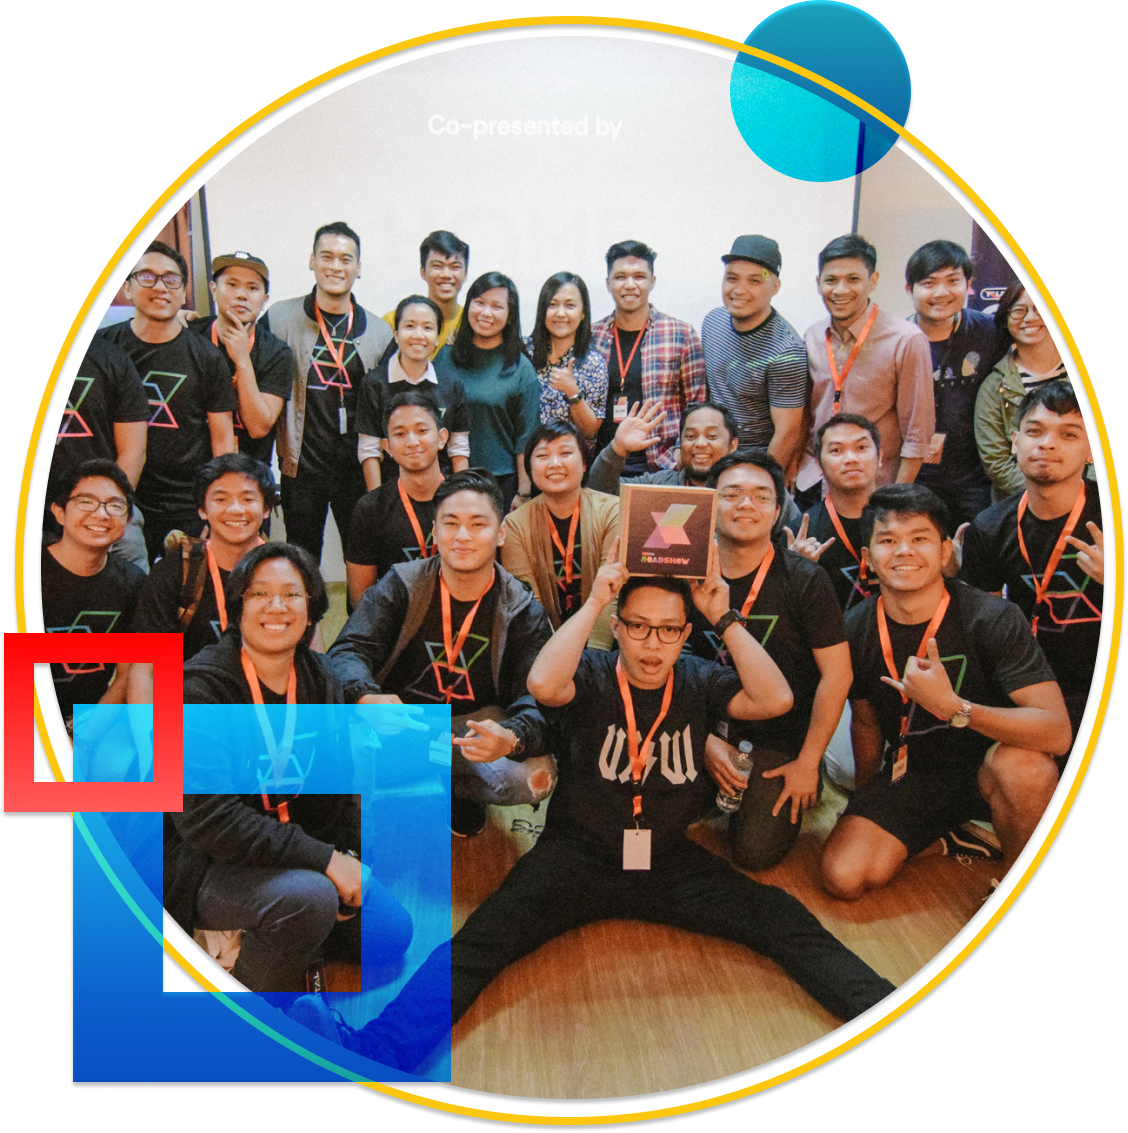
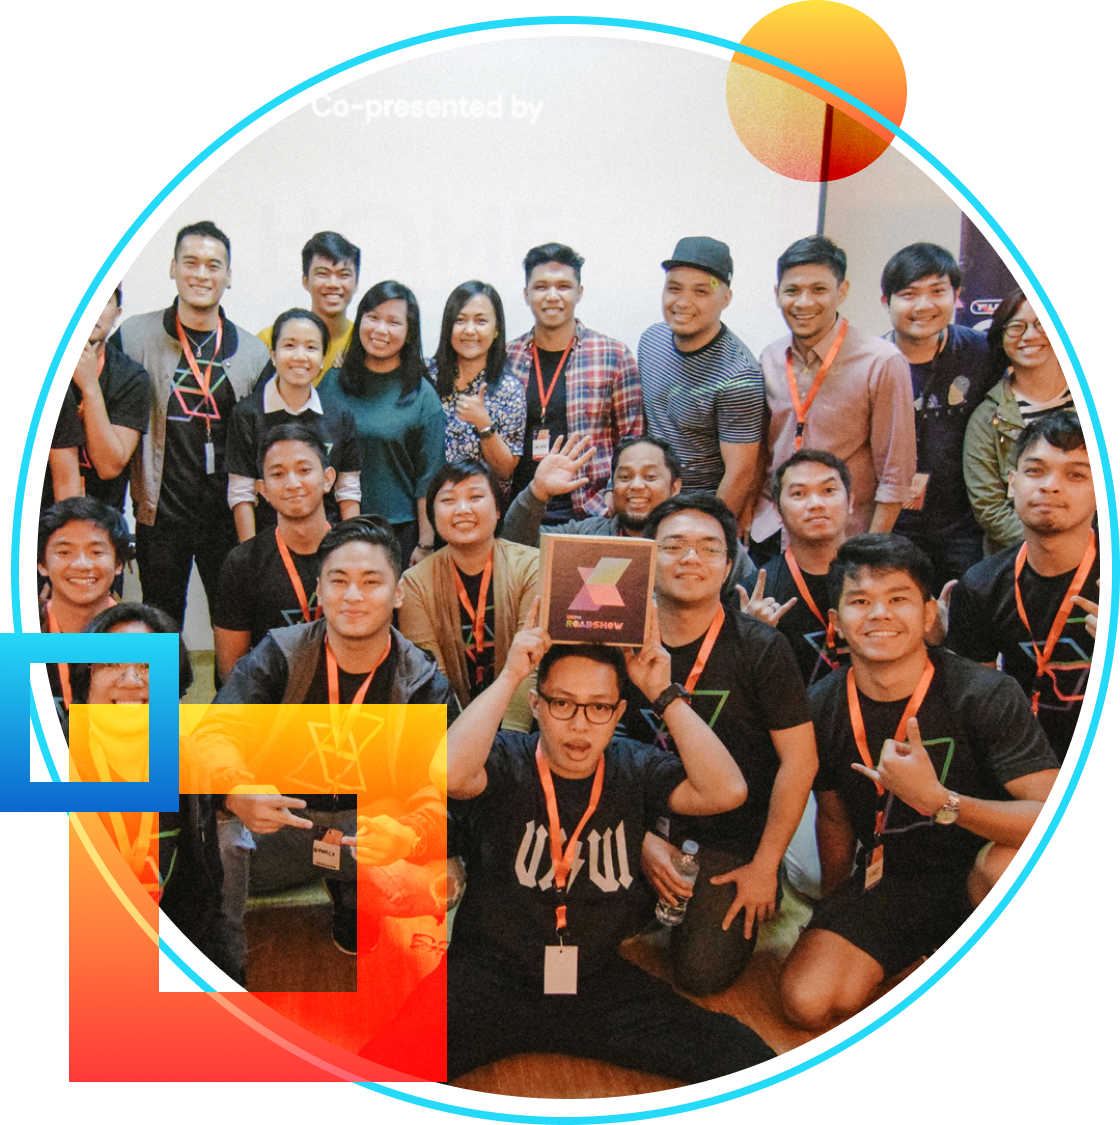
photo changed

diff --git a/layouts/index.html b/layouts/index.html
@@ -110,7 +110,7 @@
 		<section class="padding-y-96 hidden bg-light" id="organizing-team-section">
 			<div class="wrapper">
 				<div class="flex-wrapper d-flex justify-content-between align-items-center">
-					<img src="assets/images/organizing-team-square.png" class="featured-image d-block margin-right-32" />
+					<img src="assets/images/organizing-team-circle.png" class="featured-image d-block margin-right-32" />
 					<div>
 						<h2 class="margin-bottom-16">Be a part of the organizing team</h2>
 						<p>{{ .Site.Data.volunteers.blurb.description }}</p>
